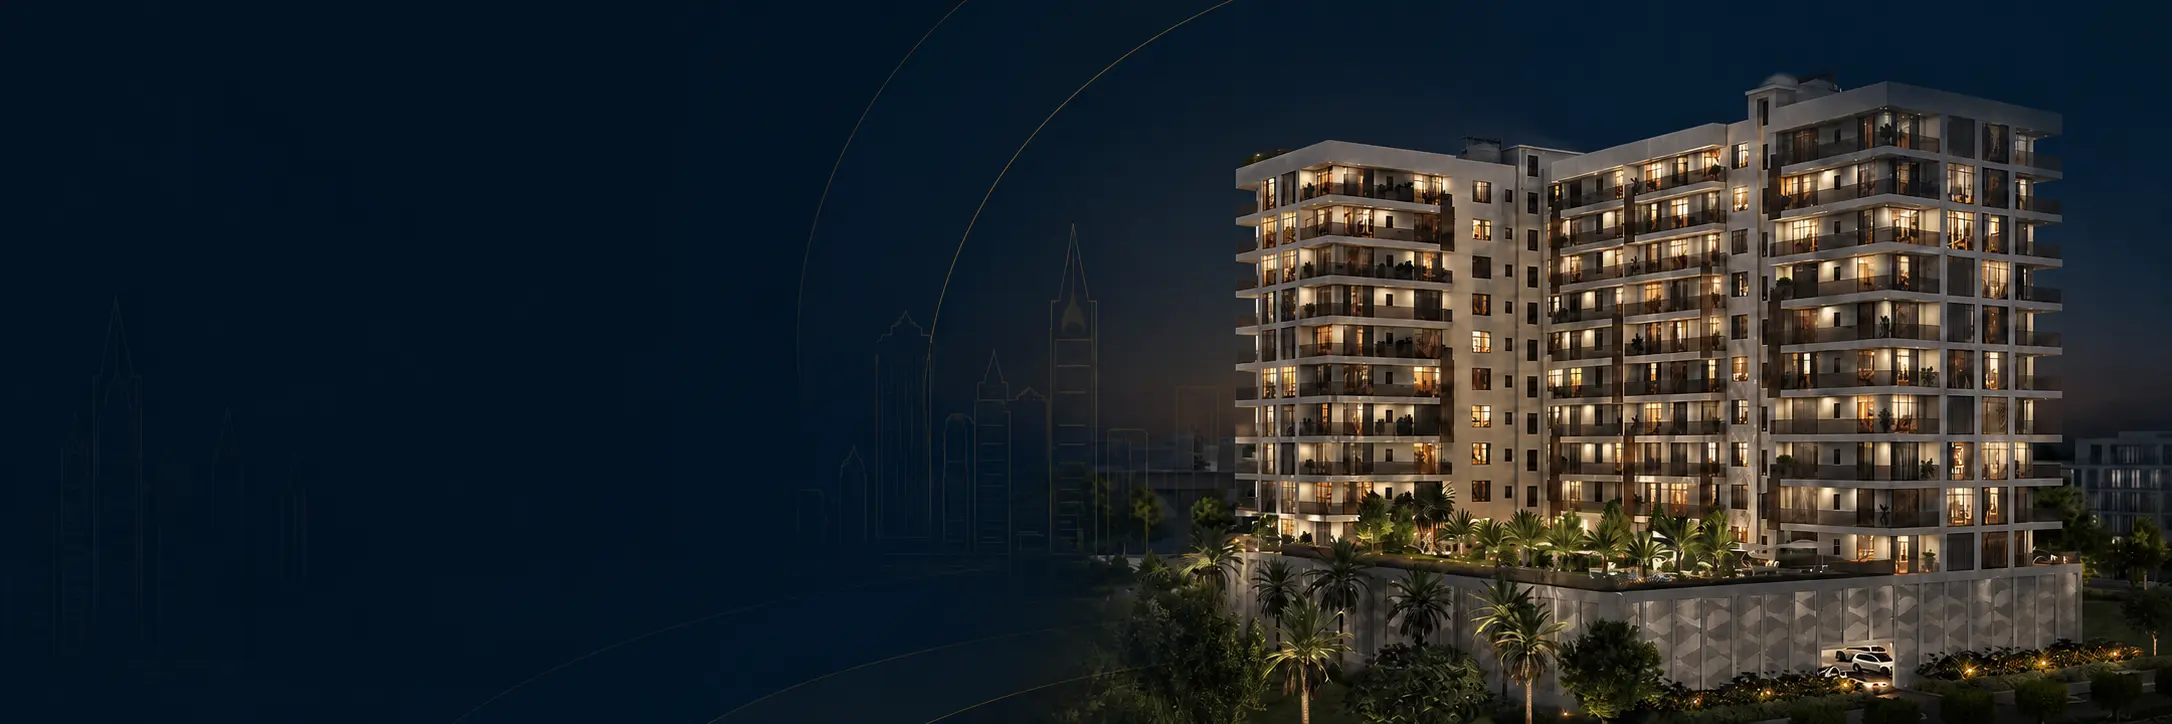
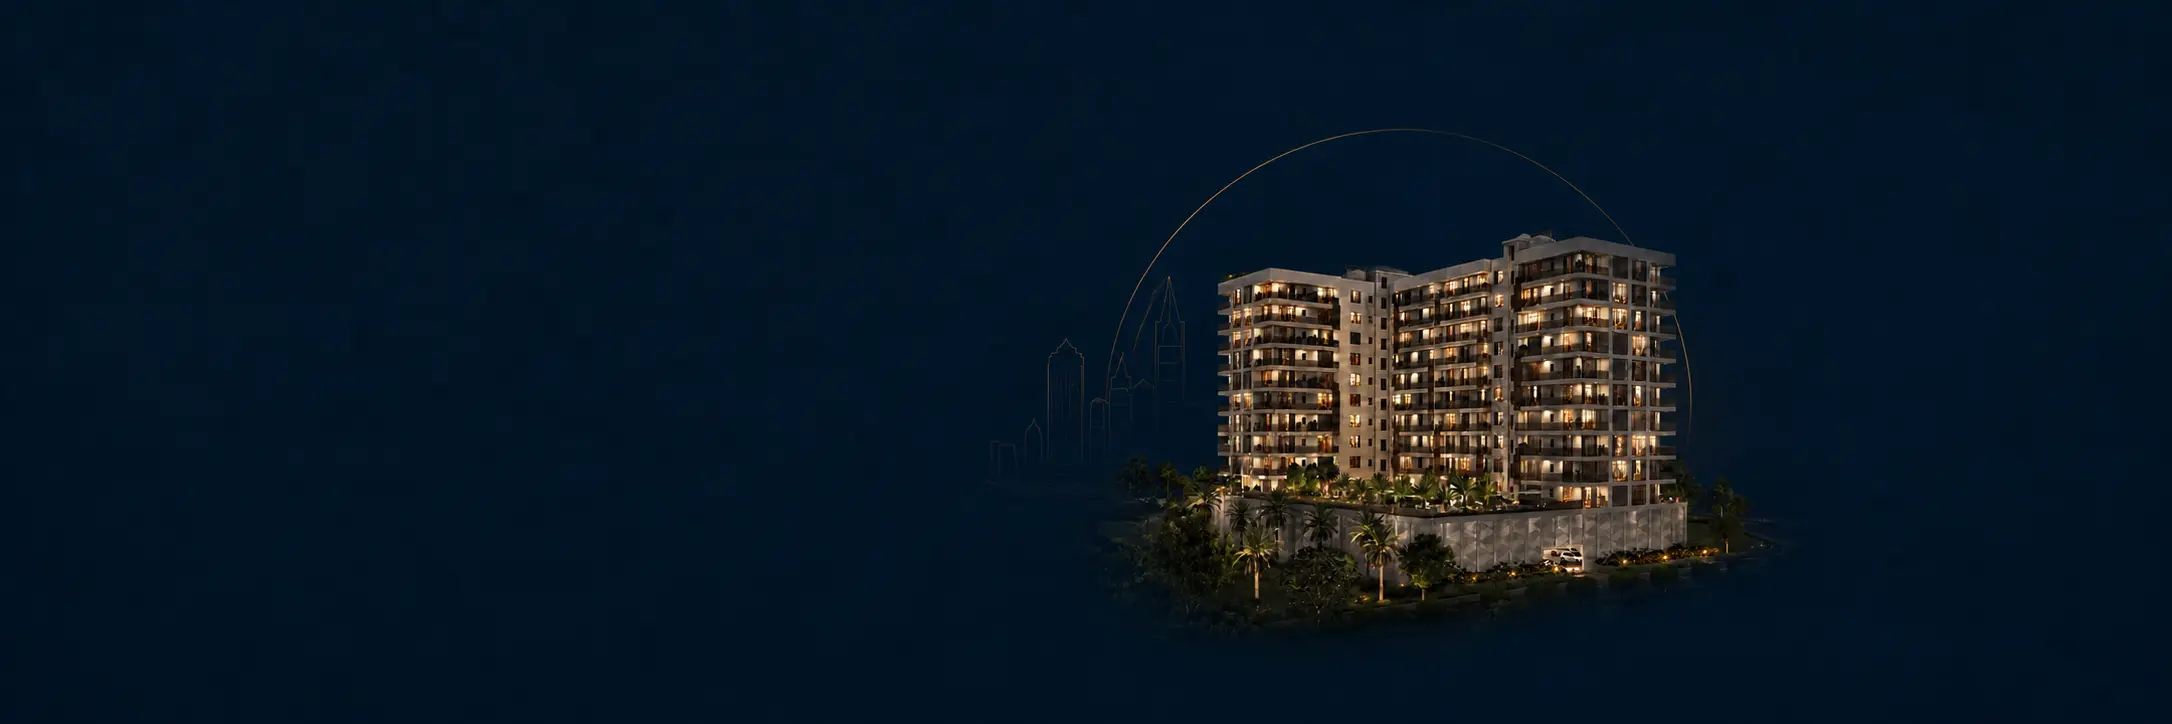
Blend and frame mobile Sunbliss background

diff --git a/mobile_header_background_patch.js b/mobile_header_background_patch.js
@@ -9,8 +9,8 @@
         background-color:#071520!important;
         background-image:url('assets/sunbliss-mobile-header-background.webp')!important;
         background-repeat:no-repeat!important;
-        background-size:auto 82%!important;
-        background-position:right 16px bottom!important;
+        background-size:cover!important;
+        background-position:90% 50%!important;
       }
       .topbar.sunbliss-professional-header::before{
         content:''!important;
